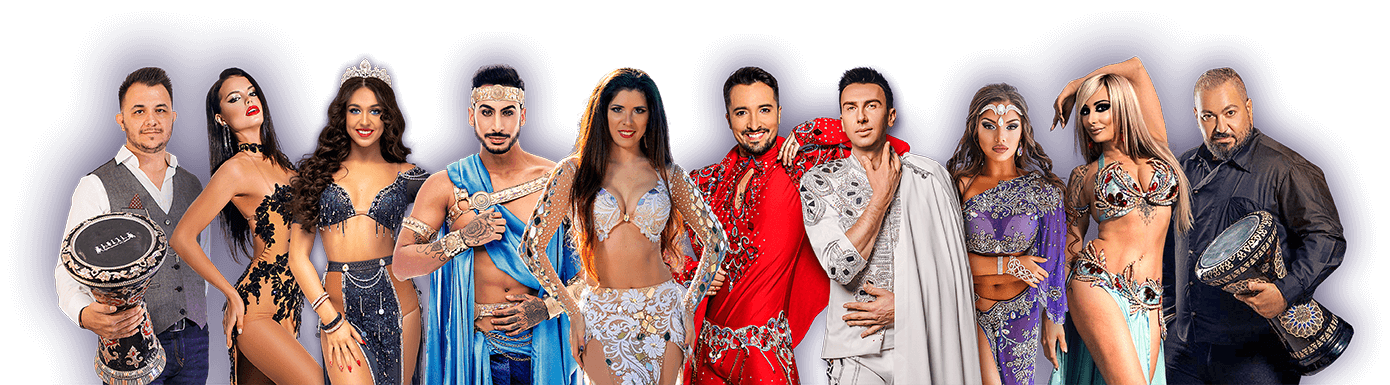
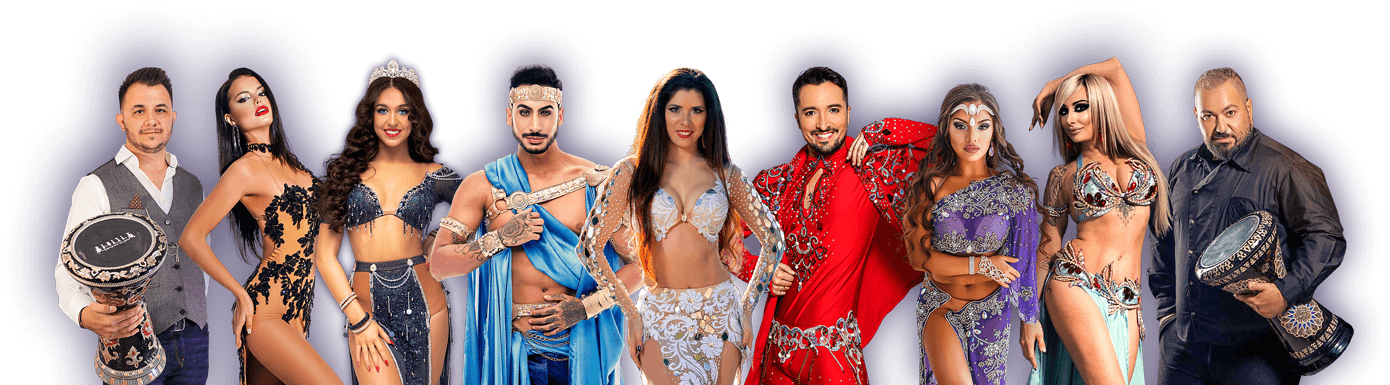
feat: remove Alexey, replace cover, change secret url

diff --git a/pages/price/index.tsx b/pages/price/index.tsx
@@ -109,7 +109,7 @@ const Price: NextPage = () => {
         <h5 className={styles.period__singleTitle}>{t('workshops.singleTitle')}:</h5>
         <p className={textStyles.p}>
           {group1Names}:
-          <span className={textStyles.accent}> {period.price[version].group1Price}€</span>
+          <span className={textStyles.accent}>&nbsp;{period.price[version].group1Price}€</span>
         </p>
 
         <p className={textStyles.p}>

diff --git a/src/ulis/price.ts b/src/ulis/price.ts
@@ -8,7 +8,7 @@ export const isOnlineFullPassSoldOut = false;
 
 //Translation keys for Price page
 export const teachersWsGroups = {
-  group1: ['pablo', 'diana', 'alexey', 'leandro', 'chronis', 'aliahChronis'],
+  group1: ['pablo', 'diana', 'leandro', 'chronis', 'aliahChronis'],
   group2: ['polina', 'eva', 'levana'],
 };
 
